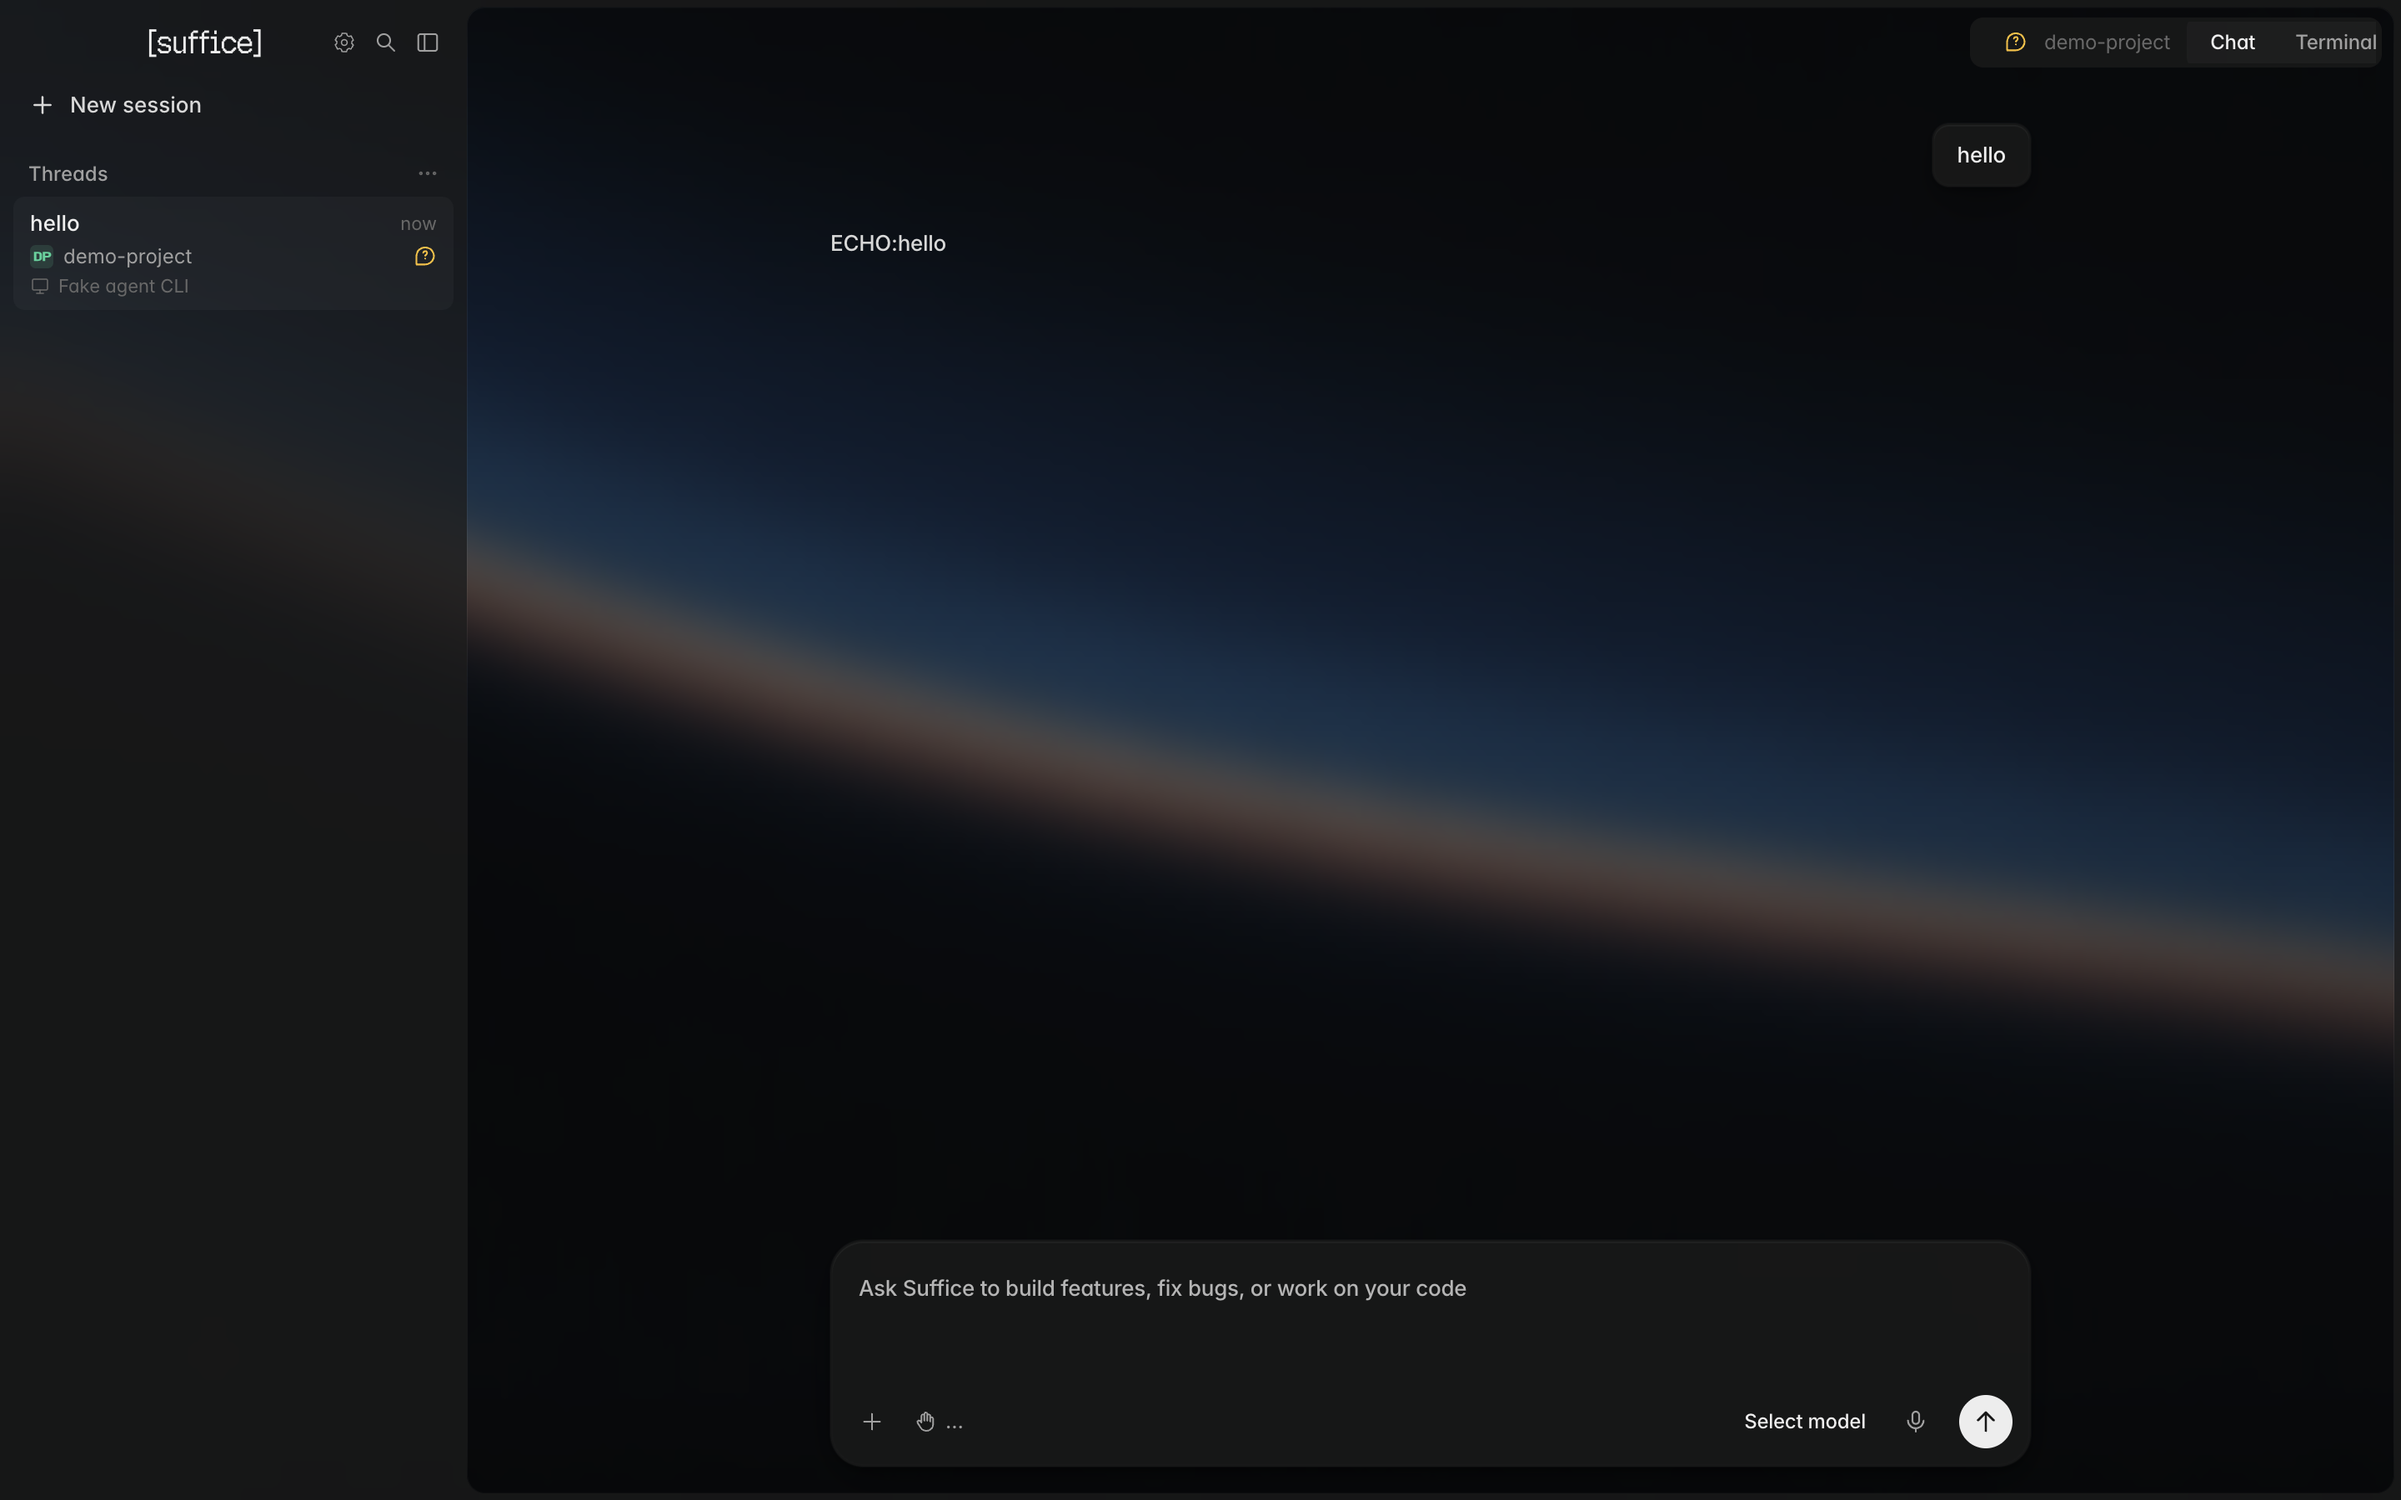
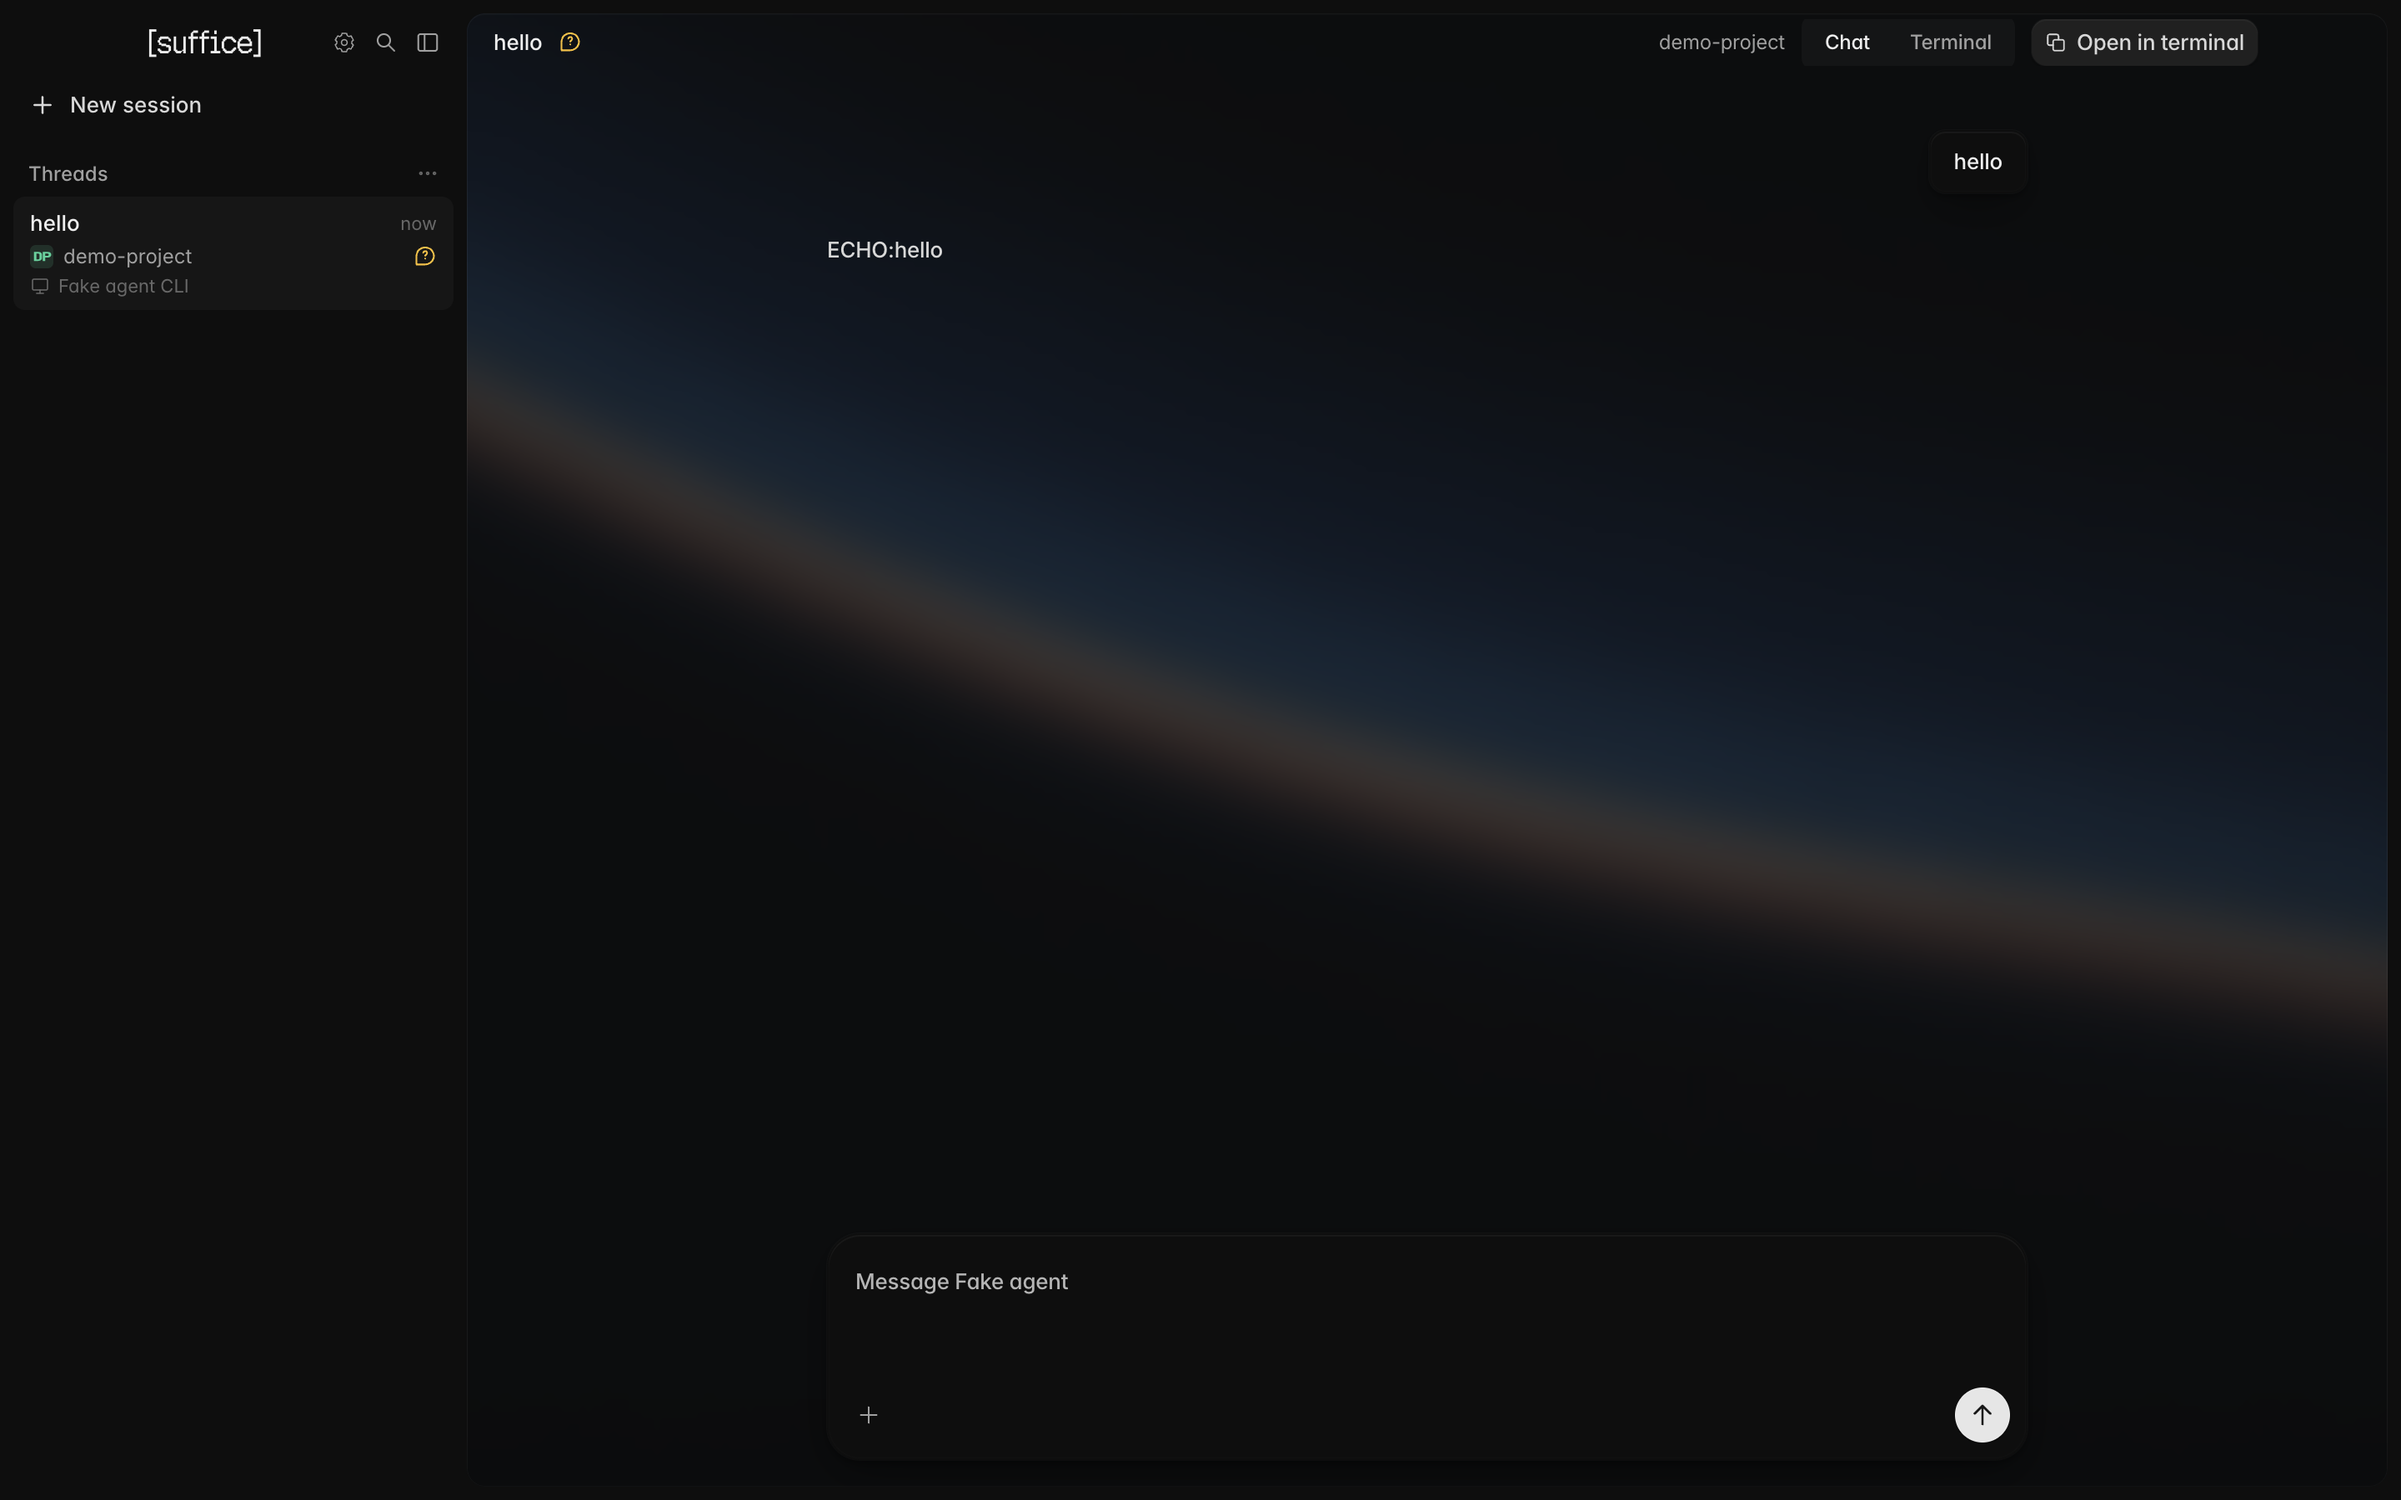
Session composer: hide model/mode pickers while source list empty, mute pending ellipsis; restore join capture PNGs

diff --git a/apps/desktop/src/sessions-controls.js b/apps/desktop/src/sessions-controls.js
@@ -43,6 +43,8 @@ export function createControls(c){
   form.modelSource={models,selected:{id:mo?.id||m.model,effort:m.effort},pending:c.pend?.kind==='model'?{id:c.pend.id}:c.pend?.kind==='effort'?{effort:c.pend.id}:null,
    choose(id,effort){if(id!==(mo?.id||m.model))choose('model',id);else if(effort&&norm(effort)!==norm(m.effort))choose('effort',effort);}};
   form.accessSource={modes:c.cat.modes.filter(x=>x.id!=='dontAsk').map(x=>({id:x.id,label:x.label,detail:x.description})),current:modeOf(m.mode),pending:c.pend?.kind==='mode'?c.pend.id:null,choose:id=>choose('mode',id)};
+  if(models.length)delete form.dataset.noModels;else form.dataset.noModels='1';
+  if(form.accessSource.modes.length)delete form.dataset.noModes;else form.dataset.noModes='1';
   form.dispatchEvent(new Event('model-source'));form.dispatchEvent(new Event('access-source'));
  }
 
@@ -130,7 +132,7 @@ export function createControls(c){
  return {
   paintMeta,syncDraft,
   attach(){
-   sig='';hidden=false;form.modelSource={models:[],selected:{},pending:null,choose(){}};form.accessSource={modes:[{id:'',label:'…',detail:''}],current:'',pending:null,choose(){}};form.dispatchEvent(new Event('model-source'));form.dispatchEvent(new Event('access-source'));
+   sig='';hidden=false;form.dataset.noModels=form.dataset.noModes='1';form.modelSource={models:[],selected:{},pending:null,choose(){}};form.accessSource={modes:[{id:'',label:'…',detail:''}],current:'',pending:null,choose(){}};form.dispatchEvent(new Event('model-source'));form.dispatchEvent(new Event('access-source'));
    const p=prompt();p.addEventListener('input',slash);p.addEventListener('keydown',esc);slashOff=()=>{p.removeEventListener('input',slash);p.removeEventListener('keydown',esc);};
   },
   setCatalog(k){c.cat=k;sig='';sync();},
@@ -139,7 +141,7 @@ export function createControls(c){
   hide(v){hidden=v;if(shelf)shelf.hidden=v;if(picker)picker.hidden=v;if(v&&slashRows.length)slashClose();},
   closeMenu:()=>slashClose(),
   detach(){
-   slashOff?.();slashOff=null;slashClose();pickerClose();shelf?.remove();shelf=null;clearTimeout(c.pendTimer);c.pend=null;c.cat=null;sig='';c.cardsSig='';
+   delete form.dataset.noModels;delete form.dataset.noModes;slashOff?.();slashOff=null;slashClose();pickerClose();shelf?.remove();shelf=null;clearTimeout(c.pendTimer);c.pend=null;c.cat=null;sig='';c.cardsSig='';
    if(hint){hint=false;const p=prompt();if(p)p.placeholder=PH();}
    delete form.modelSource;delete form.accessSource;form.dispatchEvent(new Event('model-source'));form.dispatchEvent(new Event('access-source'));
   },

diff --git a/apps/desktop/src/sessions-controls.css b/apps/desktop/src/sessions-controls.css
@@ -11,3 +11,6 @@
 .session-bg { border: 0; color: var(--text-muted); }
 .provider-logo-fallback { display: inline-flex; align-items: center; justify-content: center; width: 14px; height: 14px; flex-shrink: 0; overflow: hidden; }
 .provider-logo-fallback > svg, .provider-logo-fallback > .icon { width: 14px; height: 14px; }
+
+.model-pending{color:var(--text-muted)}
+.composer[data-no-models] .model-button,.composer[data-no-modes] .access-mode-picker{display:none}
